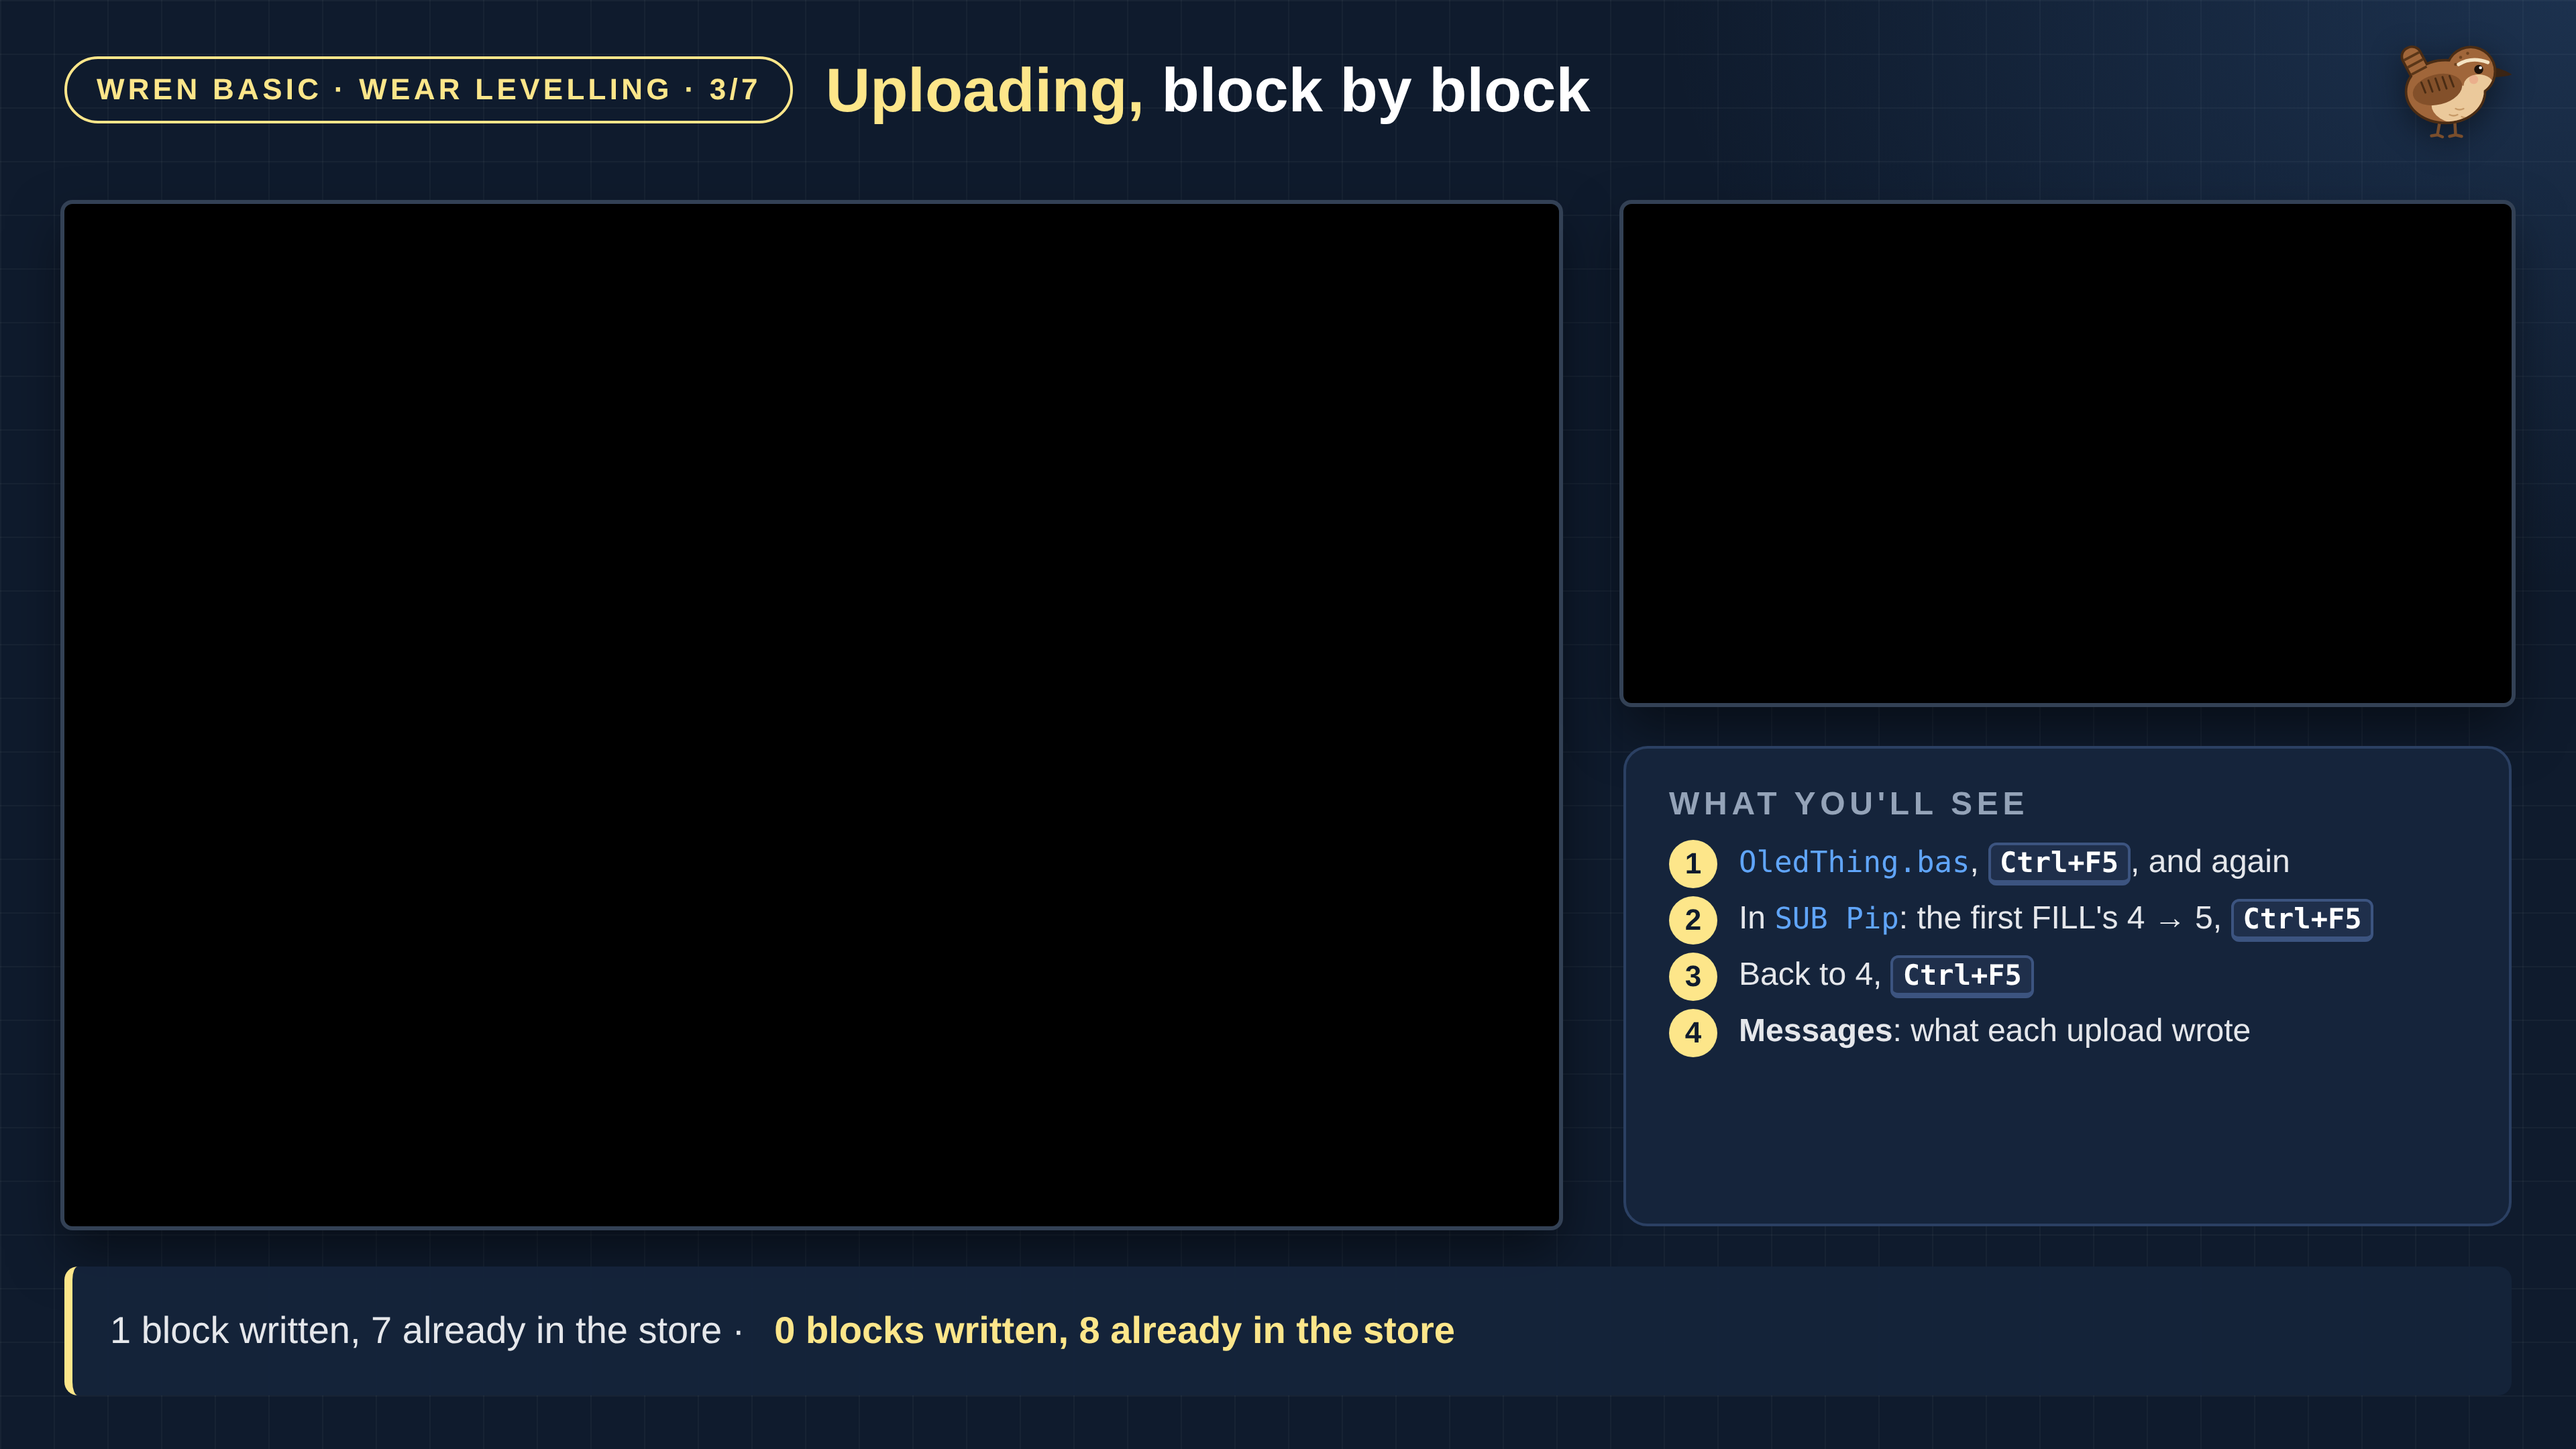
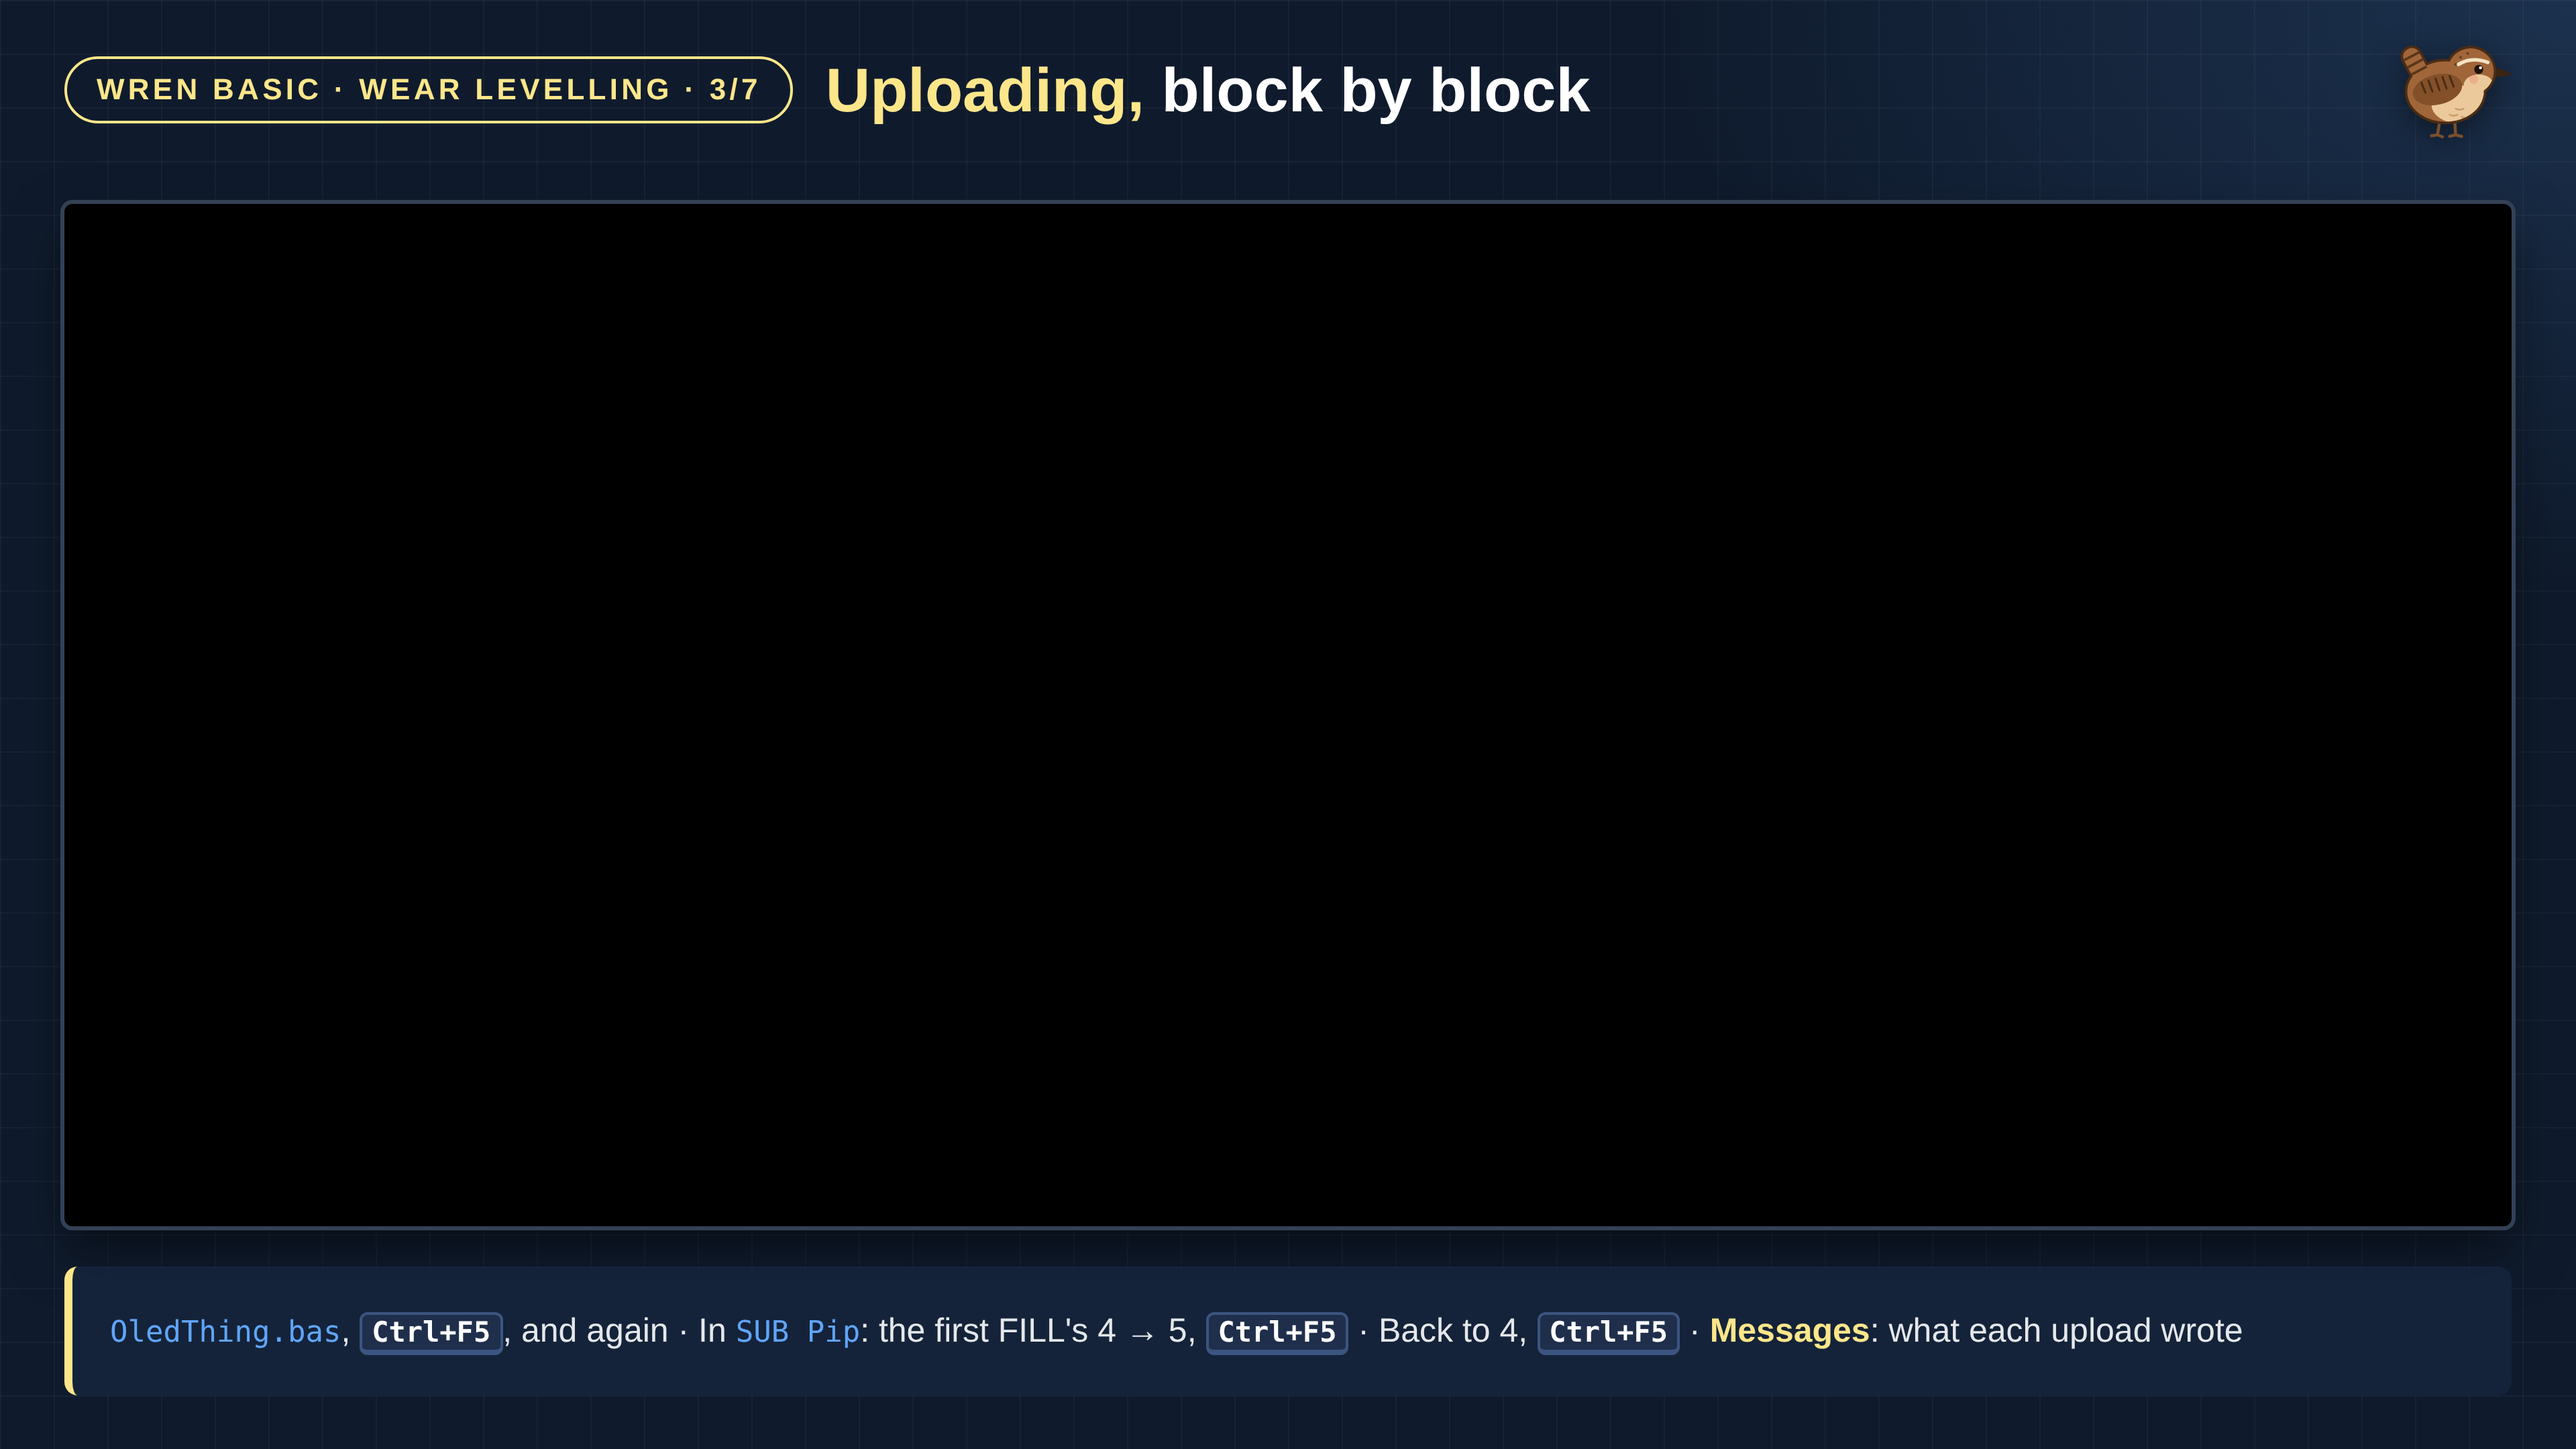
Videos: video 5's two cut-aways full width, no camera (only Wren's window matters there); the guide's rule widened to match
Claude-Session: https://claude.ai/code/session_01PM169opcHumrd8MpGp9RPP

Changed region(s): [[0.5938, 0.1241, 1.0, 0.8685], [0.0312, 0.8995, 0.875, 0.9616]]

diff --git a/docs/Videos/Infographics/Wren_05/Wren_05_03b_Uploading.html b/docs/Videos/Infographics/Wren_05/Wren_05_03b_Uploading.html
@@ -19,8 +19,8 @@
       blocks", blocks 9-16; back to the original: "Uploaded 502 bytes: 0 blocks written, 8 already
       in the store", blocks 0-7.
     - The scene: docs/Videos/Wren_05_Wear.md. A real Thing's first upload depends on what it held.
-  A backdrop for OBS: the console frame (48, 152; up to 1114 x 762) and the camera frame
-  (1210, 152; 662 x 372) are black inside; every backdrop keeps them in place.
+  A backdrop for OBS, for a scene where only Wren's window matters: one console frame the full
+  width (48, 152; 1824 x 762), black inside; no camera frame. What to do is in the strip.
 -->
 <html lang="en">
 <head>
@@ -128,6 +128,8 @@
   code { font-family: "DejaVu Sans Mono", Consolas, monospace; color: var(--basic); font-size: 22px; }
   .strip { position: absolute; left: 48px; right: 48px; top: 944px; height: 96px; display: flex; align-items: center; gap: 22px; padding: 0 28px; background: rgba(21, 36, 59, 0.92); border-left: 6px solid var(--gold); border-radius: 10px; font-size: 28px; }
   .strip b { color: var(--gold); }
+  .frame.wide { left: 48px; top: 152px; width: 1824px; height: 762px; }
+  .strip.steps { font-size: 25px; flex-wrap: wrap; gap: 10px 18px; line-height: 1.3; }
 </style>
 </head>
 <body>
@@ -190,12 +192,8 @@
   <circle cx="189.5" cy="102.5" r="3" fill="#FFFFFF" />
  </g>
 </svg><!--/WREN--></div>
-<div class="frame console"></div>
-<div class="frame camera"></div>
-<div class="card see"><h2>WHAT YOU'LL SEE</h2><ol>
-<li><code>OledThing.bas</code>, <kbd>Ctrl+F5</kbd>, and again</li><li>In <code>SUB Pip</code>: the first FILL's 4 → 5, <kbd>Ctrl+F5</kbd></li><li>Back to 4, <kbd>Ctrl+F5</kbd></li><li><b>Messages</b>: what each upload wrote</li>
-</ol></div>
-<div class="strip">1 block written, 7 already in the store · <b>0 blocks written, 8 already in the store</b></div>
+<div class="frame wide"></div>
+<div class="strip steps"><span><code>OledThing.bas</code>, <kbd>Ctrl+F5</kbd>, and again · In <code>SUB Pip</code>: the first FILL's 4 → 5, <kbd>Ctrl+F5</kbd> · Back to 4, <kbd>Ctrl+F5</kbd> · <b>Messages</b>: what each upload wrote</span></div>
 <!--NAV--><a class="nav prev" href="Wren_05_03_OnlyChanged.html" aria-label="Previous slide"></a><a class="nav next" href="Wren_05_04_Table.html" aria-label="Next slide"></a><!--/NAV-->
 </body>
 </html>

diff --git a/docs/Videos/Infographics/Wren_05/Wren_05_05b_WearReport.html b/docs/Videos/Infographics/Wren_05/Wren_05_05b_WearReport.html
@@ -13,8 +13,8 @@
     - The scene: docs/Videos/Wren_05_Wear.md. The window: src/Wren/WearWindow.axaml ("each of the 54
       store blocks ($9280-$9FFF) with the times it has been written ... Blocks with a heavy border
       hold the current program"); docs/PicoLink.md (Wear report... reads only).
-  A backdrop for OBS: the console frame (48, 152; up to 1114 x 762) and the camera frame
-  (1210, 152; 662 x 372) are black inside; every backdrop keeps them in place.
+  A backdrop for OBS, for a scene where only Wren's window matters: one console frame the full
+  width (48, 152; 1824 x 762), black inside; no camera frame. What to do is in the strip.
 -->
 <html lang="en">
 <head>
@@ -122,6 +122,8 @@
   code { font-family: "DejaVu Sans Mono", Consolas, monospace; color: var(--basic); font-size: 22px; }
   .strip { position: absolute; left: 48px; right: 48px; top: 944px; height: 96px; display: flex; align-items: center; gap: 22px; padding: 0 28px; background: rgba(21, 36, 59, 0.92); border-left: 6px solid var(--gold); border-radius: 10px; font-size: 28px; }
   .strip b { color: var(--gold); }
+  .frame.wide { left: 48px; top: 152px; width: 1824px; height: 762px; }
+  .strip.steps { font-size: 25px; flex-wrap: wrap; gap: 10px 18px; line-height: 1.3; }
 </style>
 </head>
 <body>
@@ -184,12 +186,8 @@
   <circle cx="189.5" cy="102.5" r="3" fill="#FFFFFF" />
  </g>
 </svg><!--/WREN--></div>
-<div class="frame console"></div>
-<div class="frame camera"></div>
-<div class="card see"><h2>WHAT YOU'LL SEE</h2><ol>
-<li><b>Tools → Firmware…</b>, <b>Connect</b></li><li><b>Wear report…</b></li><li>Each of the 54 blocks, and its writes</li><li>Heavy borders: the program it holds</li>
-</ol></div>
-<div class="strip">Read from the Thing's own table · <b>it only reads</b></div>
+<div class="frame wide"></div>
+<div class="strip steps"><span><b>Tools → Firmware…</b>, <b>Connect</b> · <b>Wear report…</b> · Each of the 54 blocks, and its writes · Heavy borders: the program it holds</span></div>
 <!--NAV--><a class="nav prev" href="Wren_05_05_LeastWritten.html" aria-label="Previous slide"></a><a class="nav next" href="Wren_05_06_HowFar.html" aria-label="Next slide"></a><!--/NAV-->
 </body>
 </html>

diff --git a/docs/How_We_Make_Videos.md b/docs/How_We_Make_Videos.md
@@ -219,9 +219,10 @@ of them with only the image swapped:
 | console | 48, 152 | up to 1114 × 762 |
 | camera | 1210, 152 | 662 × 372, 16:9 |
 
-**A scene on the emulator alone** has no camera: its backdrop has one
-console frame the full width of the slide (48, 152; 1824 × 762), and
-what to do goes in the strip beneath it instead of a card.
+**A scene where nothing on the board matters** (the emulator, or a
+scene about what Wren's own windows report) has no camera: its backdrop
+has one console frame the full width of the slide (48, 152; 1824 × 762),
+and what to do goes in the strip beneath it instead of a card.
 
 The frames are black inside, so a source scaled to fit leaves no
 border. In an animated set a backdrop is a page in the sequence and
